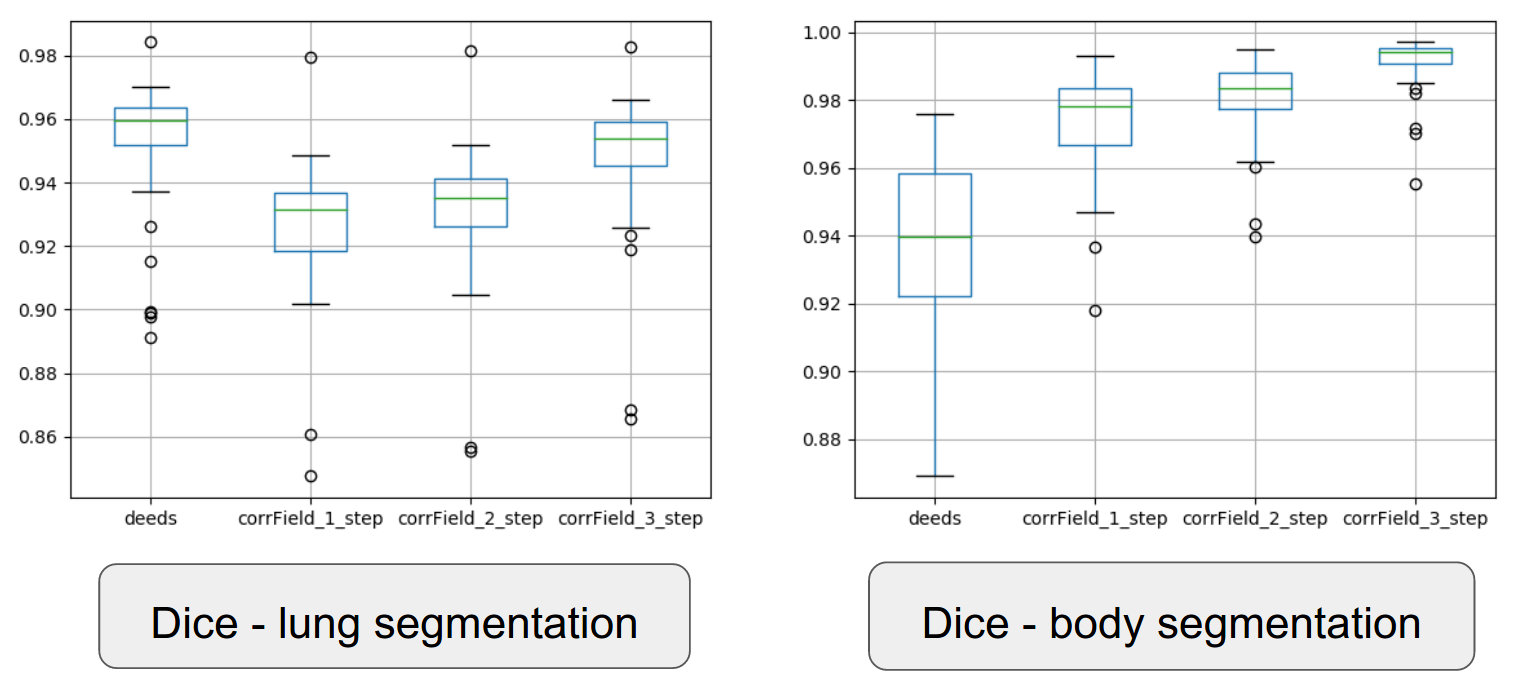
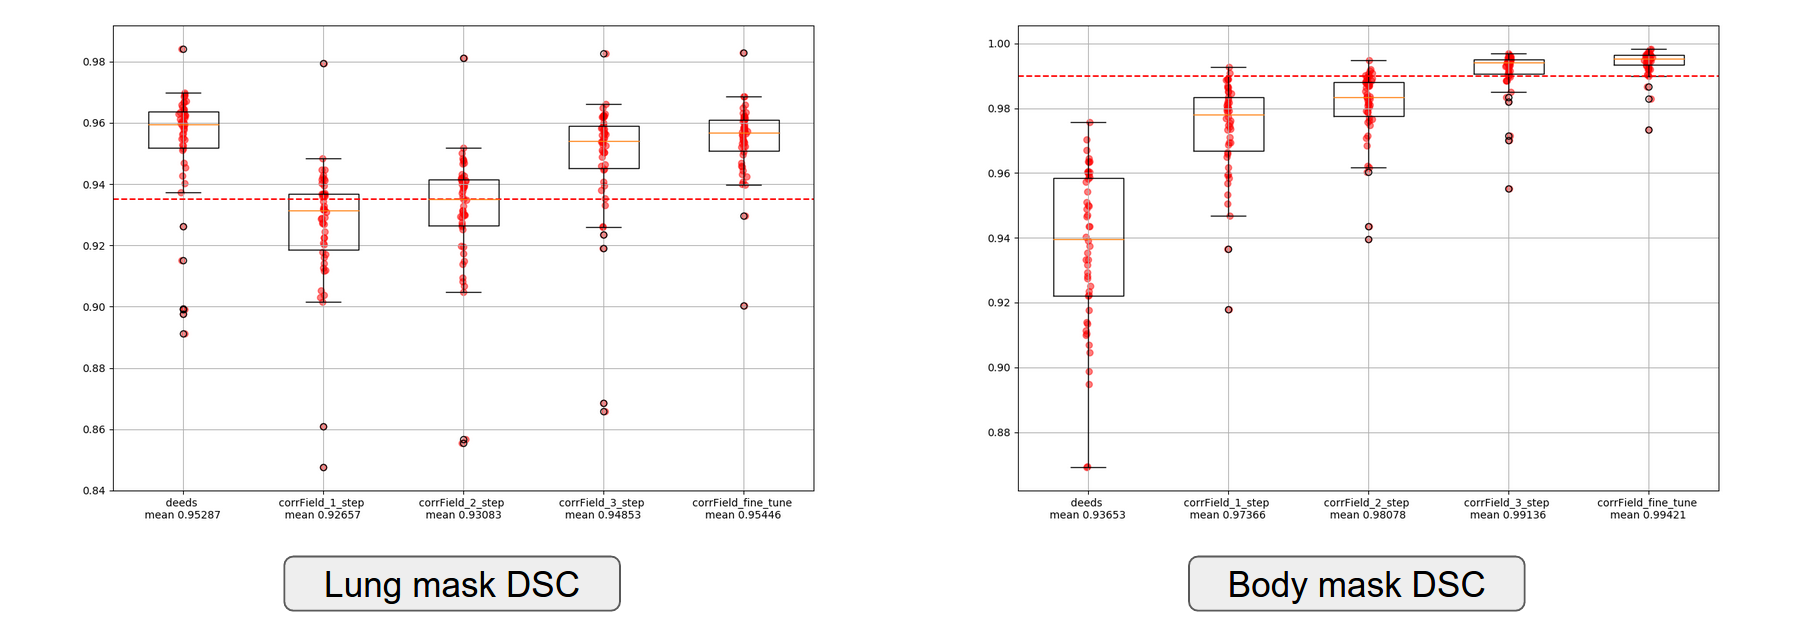
Update corrField fine tuned pipeline.

diff --git a/src/thorax/non_rigid/corrField/readme.md b/src/thorax/non_rigid/corrField/readme.md
@@ -108,17 +108,27 @@ with 50 affine co-registered scans.
 | corrField step 1 	| 0.92657     	| 0.97365     	|
 | corrField step 2 	| 0.93083     	| 0.98077     	|
 | corrField step 3 	| 0.94853     	| 0.99135     	|
+| corrField fine tune 	| 0.95446     	| 0.99421     	|
 
-<img src="./figs/dice.png" alt="drawing" width="600"/>
+<img src="./figs/dice.png" alt="drawing" width="1000"/>
 
 
-**Configuration of each step**
+**Configuration of 3 steps**
 
-| Step   	| Resolution (mm) 	| Search Radius (mm) 	| Keypoint dispersion (mm) 	| Regularization 	| Effective radius (mm) 	|
-|--------	|-----------------	|--------------------	|--------------------------	|----------------	|-----------------------	|
-| Step 1 	|           2x2x2 	|                 20 	|                       20 	|              1 	|                    32 	|
-| Step 2 	|           2x2x2 	|                 10 	|                       12 	|            0.5 	|                    22 	|
-| Step 3 	|           1x1x1 	|                 10 	|                       10 	|            0.1 	|                    16 	|
+| Step   	| Resolution (mm) 	|  Search Radius 	| Keypoint dispersion 	| Patch Radius 	| Regularization 	| Effective radius (mm) 	|
+|--------	|----------------:	|---------------:	|--------------------:	|-------------:	|---------------:	|----------------------:	|
+| Step 1 	|           2x2x2 	| 10x5 (40x20mm) 	|      10x5 (20x10mm) 	|          3x2 	|              1 	|                    32 	|
+| Step 2 	|           2x2x2 	|  5x3 (20x12mm) 	|        6x3 (12x6mm) 	|          3x2 	|            0.5 	|                    22 	|
+| Step 3 	|           1x1x1 	| 10x5 (20x10mm) 	|       10x5 (10x5mm) 	|          6x4 	|            0.1 	|                    16 	|
+
+**Configuration of fine tune**
+
+| Step   	| Resolution (mm) 	|    Search Radius 	| Keypoint dispersion 	| Patch Radius 	| Regularization 	| Effective radius (mm) 	|
+|--------	|----------------:	|-----------------:	|--------------------:	|-------------:	|---------------:	|----------------------:	|
+| Step 1 	|           2x2x2 	| 30x15 (120x60mm) 	|        8x4 (16x8mm) 	|          6x4 	|              1 	|                    26 	|
+| Step 1 	|           2x2x2 	|   16x8 (64x32mm) 	|        7x3 (14x6mm) 	|          6x4 	|            0.7 	|                    16 	|
+| Step 2 	|           2x2x2 	|    5x3 (20x12mm) 	|        6x3 (12x6mm) 	|          3x2 	|            0.5 	|                    16 	|
+| Step 3 	|           1x1x1 	|   10x5 (20x10mm) 	|       10x5 (10x5mm) 	|          6x4 	|            0.1 	|                    16 	|
 
 ## Implementation
 
